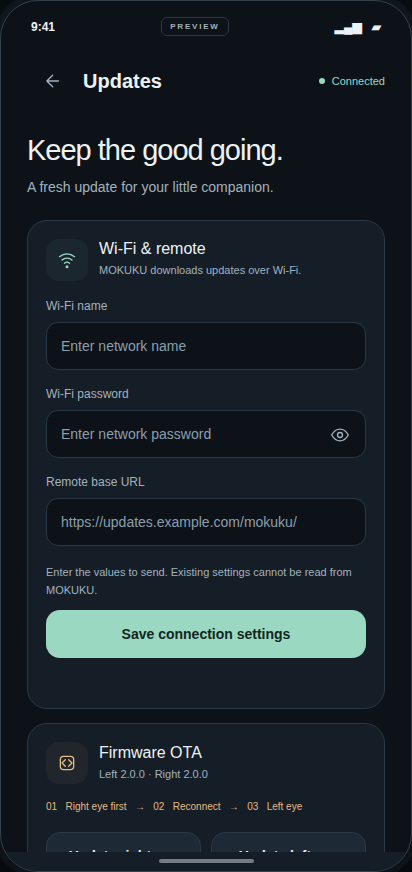
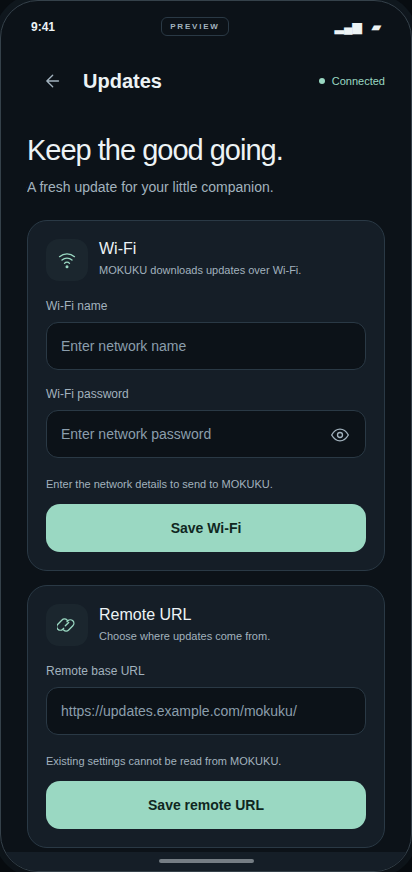
Separate connection settings and document Android contribution workflow

Changed region(s): [[0.0874, 0.5264, 0.9029, 0.7741], [0.0874, 0.805, 0.9029, 0.9908], [0.3495, 0.2787, 0.4951, 0.3096]]

diff --git a/design/app.js b/design/app.js
@@ -20,6 +20,7 @@ const paths = {
   more: '<circle cx="12" cy="5" r="1"/><circle cx="12" cy="12" r="1"/><circle cx="12" cy="19" r="1"/>',
   trash: '<path d="M3 6h18M9 6V3h6v3M5 6l1 15h12l1-15M10 10v7m4-7v7"/>',
   wifi: '<path d="M3 8a14 14 0 0 1 18 0M6 12a9 9 0 0 1 12 0m-9 4a4 4 0 0 1 6 0"/><circle cx="12" cy="20" r="1"/>',
+  link: '<path d="m10 13 4-4M8 16l-1 1a4 4 0 0 1-6-6l5-5a4 4 0 0 1 6 0m0 2 1-1a4 4 0 0 1 6 6l-5 5a4 4 0 0 1-6 0"/>',
   undo: '<path d="M4 10h10a6 6 0 0 1 0 12M4 10l6-6m-6 6 6 6"/>',
   check: '<path d="m5 12 4 4L19 6"/>',
   eye: '<path d="M2 12s4-7 10-7 10 7 10 7-4 7-10 7-10-7-10-7"/><circle cx="12" cy="12" r="3"/>',
@@ -101,14 +102,20 @@ function tools() {
 
 function updates() {
   return `${subpageIntro("Keep the good going.", "A fresh update for your little companion.")}
-    <form id="connection-settings" class="card">
-      <div class="card-heading"><span class="icon-tile">${icon("wifi")}</span><div><h3>Wi-Fi & remote</h3><p>MOKUKU downloads updates over Wi-Fi.</p></div></div>
+    <form id="wifi-settings" class="card">
+      <div class="card-heading"><span class="icon-tile">${icon("wifi")}</span><div><h3>Wi-Fi</h3><p>MOKUKU downloads updates over Wi-Fi.</p></div></div>
       <label class="field">Wi-Fi name<input name="wifi-name" type="text" placeholder="Enter network name" autocomplete="off" required ${state.connected ? "" : "disabled"}></label>
       <label class="field">Wi-Fi password<span class="password-field"><input id="wifi-password" name="wifi-password" type="password" placeholder="Enter network password" autocomplete="off" required ${state.connected ? "" : "disabled"}><button class="icon-button" type="button" data-action="reveal-password" aria-label="Show password" aria-pressed="false">${icon("eye")}</button></span></label>
+      <p class="detail">Enter the network details to send to MOKUKU.</p>
+      <button class="button primary full" type="submit" ${state.connected ? "" : "disabled"}>Save Wi-Fi</button>
+      <div id="wifi-feedback" class="inline-status" role="status"></div>
+    </form>
+    <form id="remote-url-settings" class="card">
+      <div class="card-heading"><span class="icon-tile">${icon("link")}</span><div><h3>Remote URL</h3><p>Choose where updates come from.</p></div></div>
       <label class="field">Remote base URL<input name="remote-url" type="url" placeholder="https://updates.example.com/mokuku/" autocomplete="off" required ${state.connected ? "" : "disabled"}></label>
-      <p class="detail">Enter the values to send. Existing settings cannot be read from MOKUKU.</p>
-      <button class="button primary full" type="submit" ${state.connected ? "" : "disabled"}>Save connection settings</button>
-      <div id="settings-feedback" class="inline-status" role="status"></div>
+      <p class="detail">Existing settings cannot be read from MOKUKU.</p>
+      <button class="button primary full" type="submit" ${state.connected ? "" : "disabled"}>Save remote URL</button>
+      <div id="remote-url-feedback" class="inline-status" role="status"></div>
     </form>
     <section class="card"><div class="card-heading"><span class="icon-tile warm">${icon("software")}</span><div><h3>Firmware OTA</h3><p>${state.connected || state.hasConnected ? `${state.connected ? "" : "Last received · "}Left 2.0.0 · Right 2.0.0` : "Connect to query eye versions."}</p></div></div><p class="step-note">01 &nbsp; Right eye first &nbsp; → &nbsp; 02 &nbsp; Reconnect &nbsp; → &nbsp; 03 &nbsp; Left eye</p>
       <div class="button-row">${deviceButton("Update right eye", "confirm-update", "secondary", 'data-kind="Firmware OTA" data-eye="right"')}${deviceButton("Update left eye", "confirm-update", "secondary", 'data-kind="Firmware OTA" data-eye="left"')}</div></section>
@@ -365,10 +372,11 @@ document.addEventListener("click", (event) => {
 });
 
 document.addEventListener("submit", (event) => {
-  if (event.target.id !== "connection-settings") return;
+  if (!event.target.matches("#wifi-settings, #remote-url-settings")) return;
   event.preventDefault();
   if (!state.connected) return;
-  document.getElementById("settings-feedback").textContent = "Preview: entries accepted locally. No settings were sent or stored.";
+  const setting = event.target.id === "wifi-settings" ? "Wi-Fi" : "Remote URL";
+  event.target.querySelector('[role="status"]').textContent = `Preview: ${setting} entries accepted locally. No settings were sent or stored.`;
 });
 
 sheet.addEventListener("close", () => clearTimeout(scanTimer));

diff --git a/design/styles.css b/design/styles.css
@@ -165,6 +165,7 @@ h1 em { font-style: normal; color: var(--mint); }
 .download-progress progress::-webkit-progress-value { background: var(--mint); border-radius: 3px; }
 .download-status { display: flex; align-items: center; justify-content: space-between; font-size: 10px; color: var(--secondary); }
 .inline-status { font-size: 11px; line-height: 1.6; color: var(--mint); margin-top: 14px; min-height: 18px; }
+.inline-status:empty { margin-top: 0; min-height: 0; }
 #toast { position: absolute; left: 22px; right: 22px; bottom: 105px; padding: 15px 18px; background: #2a3b46; border: 1px solid #426052; color: var(--text); border-radius: 14px; box-shadow: 0 8px 24px #0004; font-size: 12px; line-height: 1.6; opacity: 0; pointer-events: none; transition: opacity .18s; }
 #toast.visible { opacity: 1; }
 #sheet { position: fixed; inset: auto auto 19px; width: calc(100% - 16px); max-height: 82%; padding: 24px; margin: 0; border: 1px solid var(--border); border-radius: 25px 25px 18px 18px; background: var(--surface); color: var(--text); box-shadow: 0 -10px 50px #0006; }

diff --git a/AGENTS.md b/AGENTS.md
@@ -1,0 +1,103 @@
+# Agent instructions
+
+Direct user instructions take precedence; flag conflicts with these rules.
+
+## Scope and references
+
+This repository is the native Android companion for the original two-eye ESP32-S3
+MOKUKU. Do not add MOKUKU II support or its set/get protocol.
+
+Read [README.md](README.md) before working. For UI changes, read
+[design/README.md](design/README.md); for BLE and device actions, read
+[design/PROTOCOL_MAP.md](design/PROTOCOL_MAP.md).
+
+The current Android app is a Java/XML starter. `design/` contains an offline
+browser prototype with sample data. Keep prototype interactions clearly labeled;
+do not present sample connections, settings, downloads, or commands as real device
+operations. Implement native features only within the requested task's scope.
+
+When checked out inside `MobiliMOKUKU`, verify protocol behavior against
+`../IDF_SHARED/backend/ble_messager.cc`, `../IDF_SHARED/sdcard/sd_card.c`, and
+`../BleControl/monitor_app/`. Follow the parent repository's applicable instructions.
+For standalone checkouts, use the local protocol map and identify behavior that
+still needs firmware or hardware verification rather than guessing.
+
+## Repository layout
+
+| Path | Purpose |
+|---|---|
+| `app/` | Native Android manifest, Java code, and XML resources. |
+| `design/` | Style guide, screen flows, protocol map, and HTML/CSS/JavaScript prototype. |
+| `design/previews/` | Screenshots rendered from the prototype. |
+| `gradle/`, `gradlew`, `gradlew.bat` | Checked-in Gradle wrapper. |
+| `scripts/build.sh` | Build, lint, export, and optional installation helper. |
+| `.github/workflows/android.yml` | GitHub Actions APK build and artifact upload. |
+| `artifacts/docker/dev.dockerfile` | Optional local Android build environment. |
+
+## Product and design
+
+- Keep four tabs: **Home**, **Data Collection**, **Trips**, and **Tools**.
+  Simulation opens from Home; Updates and Debug open from Tools. Trips remains
+  “Coming later” until its implementation is requested.
+- Follow the charcoal/slate surfaces, muted mint accents, spacing, typography,
+  and touch targets in the style guide. Preserve accessible labels, readable
+  contrast, system font scaling, reduced motion, and Android Back behavior.
+- Wi-Fi credentials and the remote URL have separate forms, save buttons,
+  validation, and feedback. Changing one must not require completing the other.
+- Show device information only after it is received. Distinguish cached values,
+  unavailable information, command acceptance, and verified completion.
+- Preserve right-eye-first update ordering. Require confirmation for rollback,
+  per-file deletion, and clearing all recordings. Device deletion keeps phone copies.
+- Do not invent recording dates, sizes, or complete-list guarantees from a
+  filename-only directory reply. Follow the protocol map's clear-all limitations.
+- Mask passwords, allow deliberate reveal, and keep credentials out of logs,
+  screenshots, commits, and prototype storage.
+
+## Build and verification
+
+Use JDK 17 and Android SDK 35 with Build Tools 35.0.0. Use the checked-in wrapper;
+do not depend on a globally installed Gradle. Set `ANDROID_HOME` or local SDK
+configuration as described in the README.
+
+```bash
+./scripts/build.sh
+```
+
+This runs `:app:assembleDebug` and `:app:lintDebug`, then exports
+`output/mokuku-debug.apk`. Install on a device only when requested, using
+`./scripts/build.sh --install`. Docker is optional for Android builds; firmware
+container instructions in the parent repository concern firmware changes.
+
+For Android or build configuration changes, run the build helper. For prototype
+JavaScript changes, run `node --check design/app.js` and exercise the affected
+browser flows, including disconnected and canceled actions. Check narrow layouts
+at 320 and 390 pixels when changing layout. Refresh affected screenshots from the
+rendered prototype, excluding entered credentials. Documentation-only edits need
+link and diff checks rather than an unrelated app rebuild.
+
+GitHub Actions is the CI build path. Do not add `.pipeline/`. Automatic APK builds
+watch app source and build inputs; documentation/design-only changes must not
+trigger them. Preserve the shared push/PR path filter, manual builds, and APK
+artifact upload. Inspect failed checks before reporting a PR ready. Do not add
+placeholder tests or new test infrastructure for minor visual or documentation changes.
+
+## Changes and pull requests
+
+- Keep changes focused. Prefer the simplest concrete design, descriptive names,
+  and existing helpers. Avoid speculative abstractions, compatibility layers,
+  dependencies, and broad refactors.
+- Keep prose and comments concise. Explain a non-obvious reason rather than
+  narrating the code.
+- Update the README for setup or build changes, the style guide and previews for
+  UI changes, and the protocol map for verified protocol discoveries. Update this
+  file when contributor workflows or repository layout change.
+- Before a PR, review changed code separately for reuse, quality, and efficiency;
+  use `$simplify` when available. Apply concrete findings and summarize validation
+  and rejected findings in the PR description.
+- Use a feature branch and target `main`. State whether the change is a design
+  prototype or a working Android feature; do not claim hardware verification
+  without a device check. Leave merging to the user unless requested.
+- Preserve unrelated edits. Do not force-push, reset hard, delete branches, or
+  bypass hooks without explicit user confirmation in the current session.
+- Keep generated builds, local SDK paths, keystores, and credentials untracked.
+  Do not modify the parent repository's submodule pointer unless requested.

diff --git a/README.md b/README.md
@@ -55,6 +55,7 @@ write the APK to the same `output/` directory on the host.
 
 | Path | Purpose |
 |---|---|
+| `AGENTS.md` | Repository scope, design conventions, build checks, and contributor workflow for coding agents. |
 | `app/` | Native Android application: manifest, Java activity, XML resources. |
 | `design/` | Visual style, screen flows, original-MOKUKU protocol map, and interactive prototype. |
 | `gradle/`, `gradlew`, `gradlew.bat` | Gradle wrapper for Linux, macOS, and Windows. |
@@ -62,8 +63,13 @@ write the APK to the same `output/` directory on the host.
 | `artifacts/docker/dev.dockerfile` | Android build environment. |
 | `.github/workflows/android.yml` | GitHub Actions build, lint, and APK artifact upload. |
 
-GitHub Actions runs `scripts/build.sh` on pushes, pull requests, and manual runs,
-then uploads `mokuku-debug.apk` as a workflow artifact.
+GitHub Actions runs `scripts/build.sh` for branch pushes and pull requests that
+change `app/`, the Gradle build files/wrapper, the build helper, or the APK workflow
+itself. Markdown and changes confined to documentation or `design/` do not trigger
+an APK build. Manual runs remain available. Successful builds upload
+`mokuku-debug.apk` as a workflow artifact. The shared
+[path filter](https://docs.github.com/en/actions/reference/workflows-and-actions/workflow-syntax#onpushpull_requestpull_request_targetpathspaths-ignore)
+keeps push and PR triggers consistent.
 
 The app targets the original MOKUKU. See `doc/BLE_CONTROL.md` in the parent
 `MobiliMOKUKU` repository and the checked [protocol map](design/PROTOCOL_MAP.md).

diff --git a/design/README.md b/design/README.md
@@ -88,11 +88,16 @@ remain visible with **Last received** labeling until a new query succeeds.
 
 ## Tools → Updates
 
-Group **Wi-Fi name**, **Wi-Fi password**, and **Remote base URL** above the update
-actions. Password is masked, has a reveal control, is never logged, and is not
+Use separate **Wi-Fi** and **Remote URL** cards above the update actions. Wi-Fi
+contains the network name, password, and **Save Wi-Fi** button; Remote URL contains
+the base URL and its own **Save remote URL** button. Each form validates and saves
+independently, so changing the URL does not require re-entering Wi-Fi credentials.
+Password is masked, has a reveal control, is never logged, and is not
 prefilled from a device query. These settings are write-only in the original
 protocol. Label fields as entries to send, and show each save result independently;
-never call an unacknowledged write “saved.” Validate UTF-8 byte lengths against the
+Wi-Fi succeeds only after both name and password writes are acknowledged. Report
+either field's failure without implying both were saved. The URL has its own
+acknowledgement. Never call an unacknowledged write “saved.” Validate UTF-8 byte lengths against the
 firmware's buffers, not just the protocol's 255-byte envelope.
 
 Use separate cards for **Firmware OTA**, **Voice model**, **Meme assets**, and
